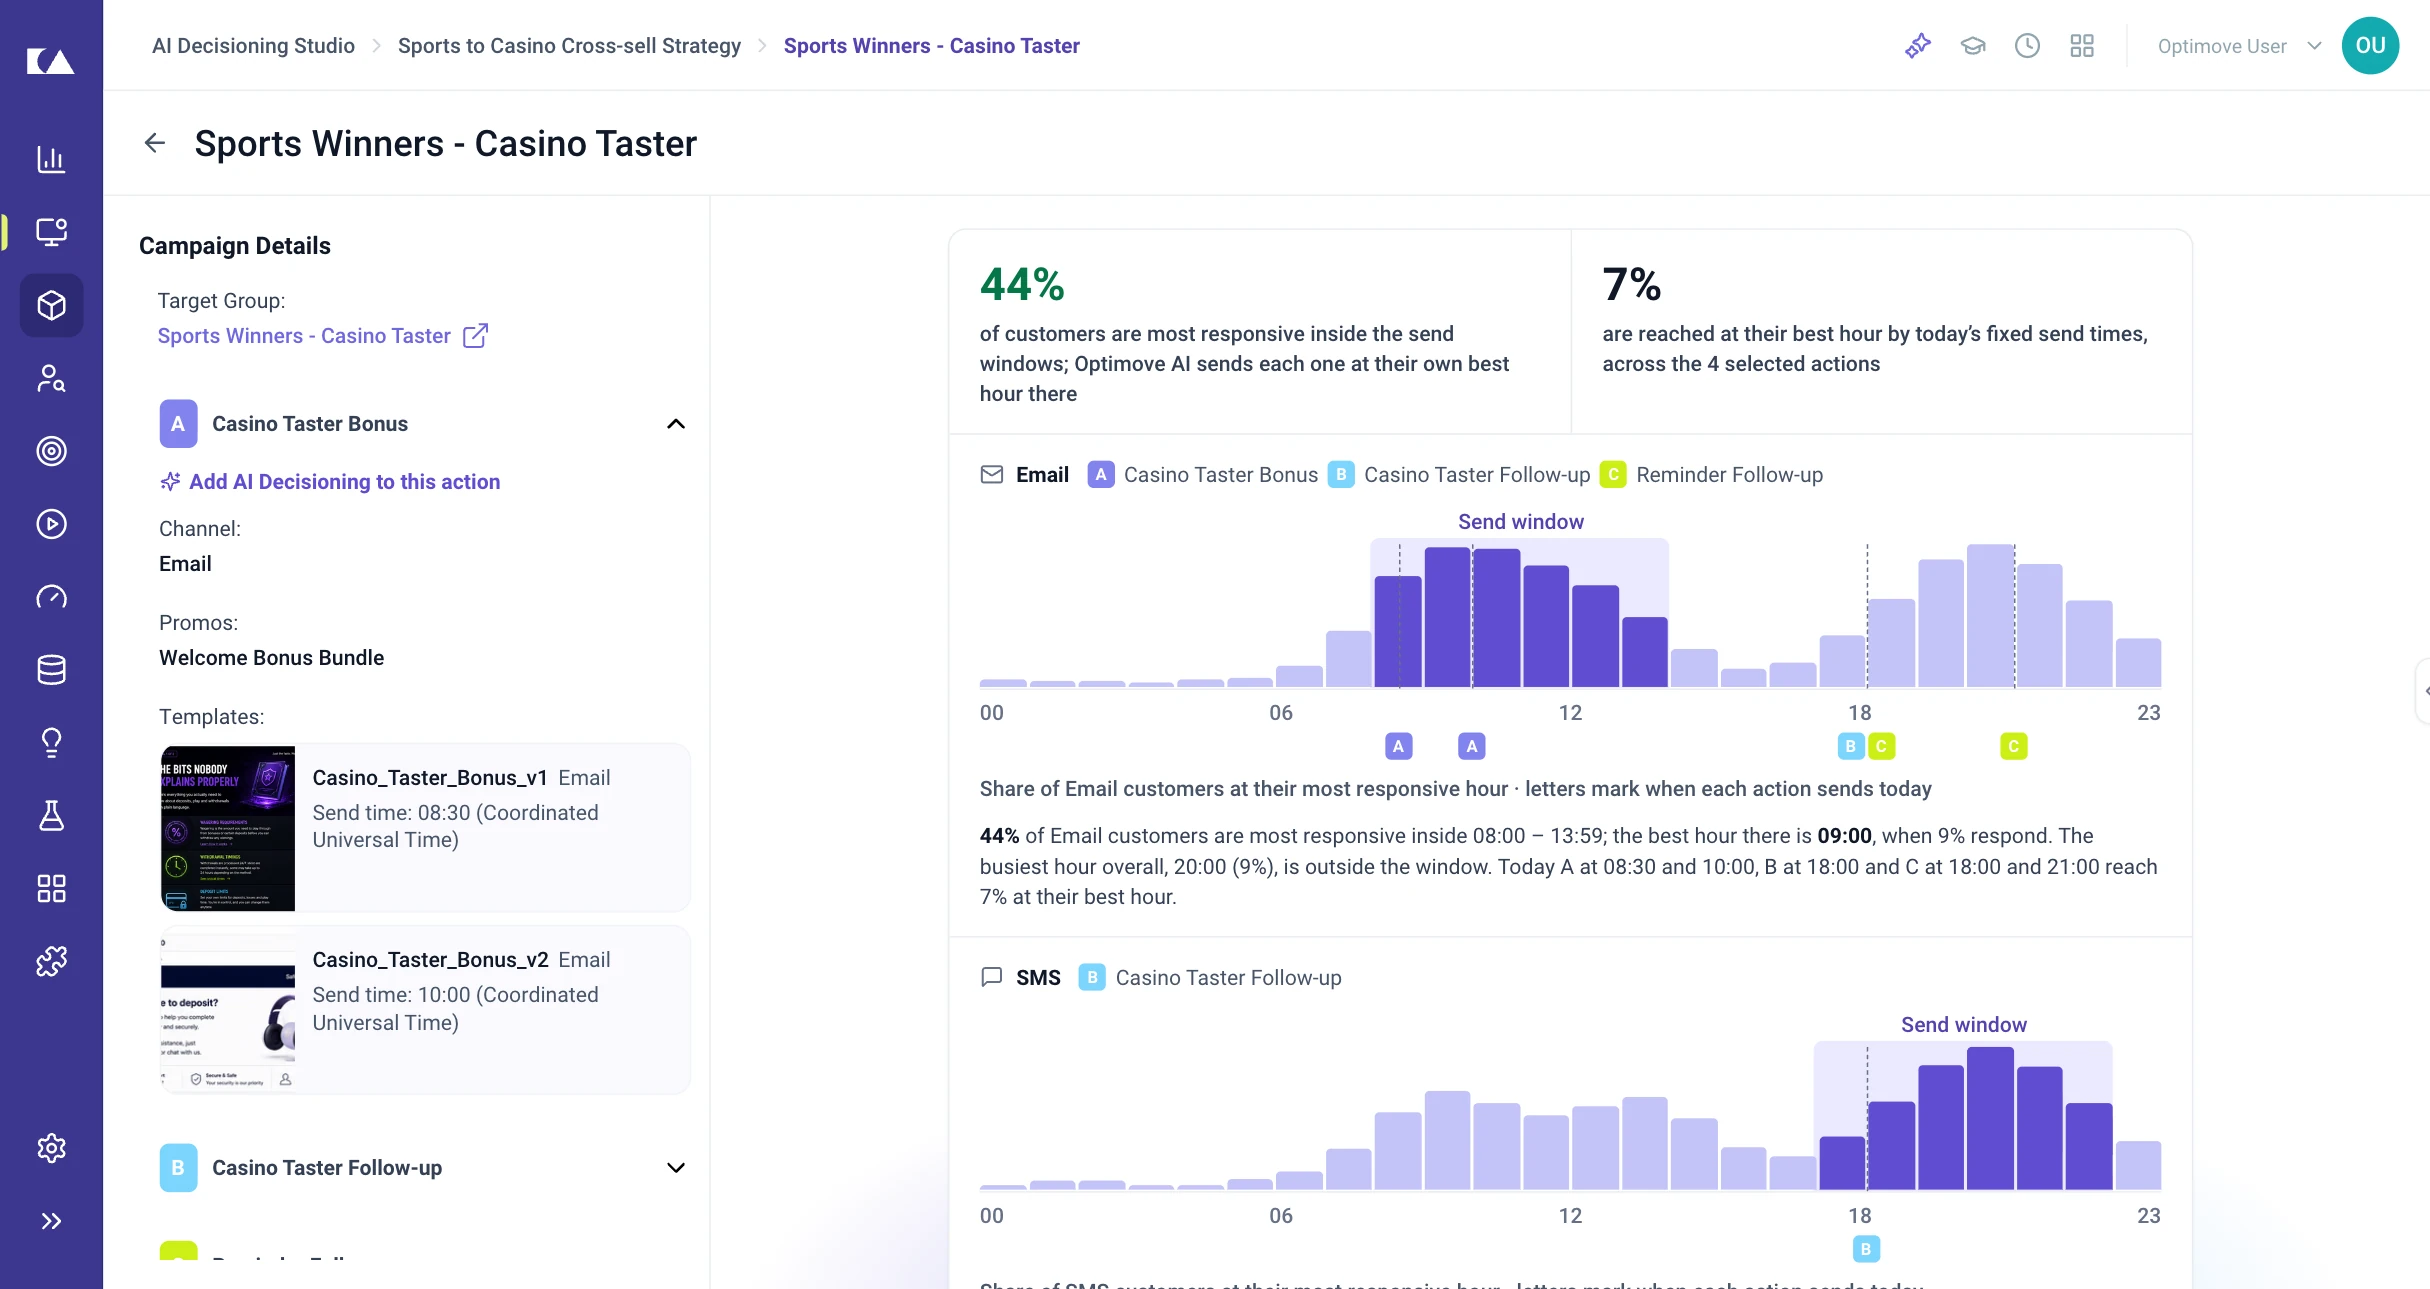
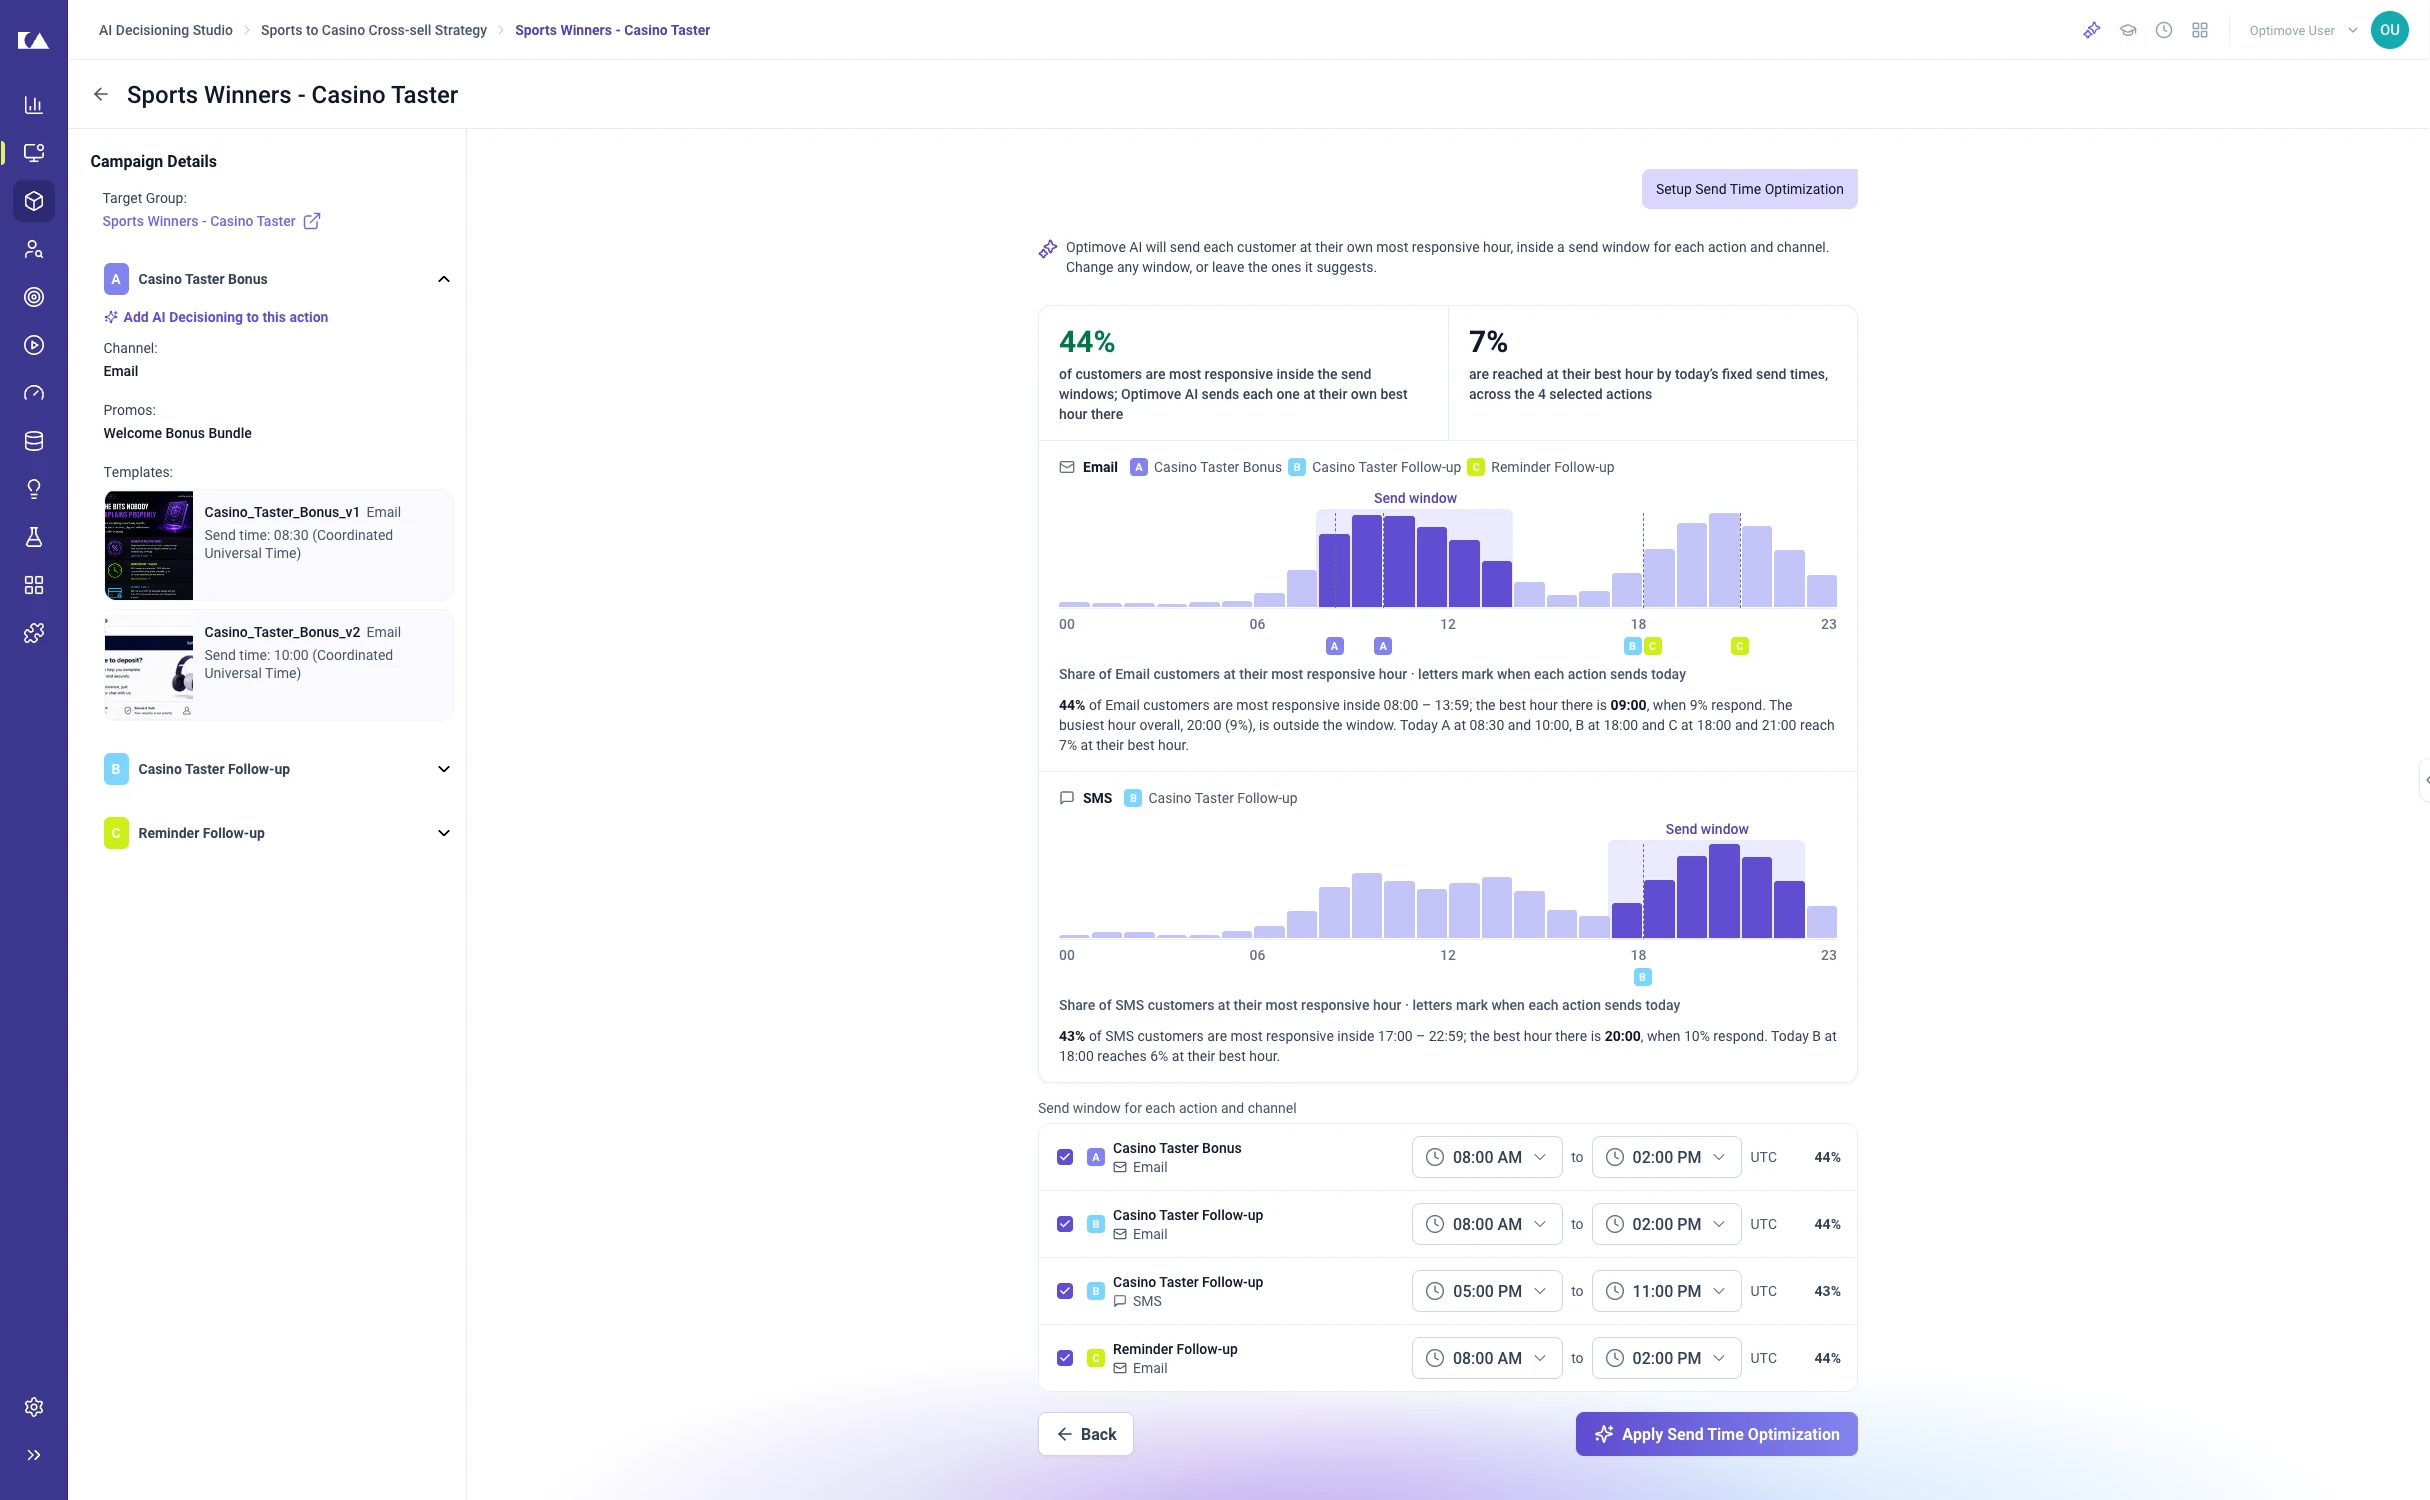
feat(ads): Send Time setup still shows the whole page, no scroll (2430x1500)

diff --git a/ai-decisioning-studio.html b/ai-decisioning-studio.html
@@ -852,7 +852,7 @@ body::after { content: ""; position: fixed; inset: 0; z-index: 9000; pointer-eve
             <div class="story-block fade-up"><div class="story-block__head"><span class="story-block__n">Before and after</span><h3>What it will do, then what it did</h3><p>A preview before the switch, a result against control after it.</p></div><figure class="story-block__art" tabindex="0" aria-label="Before and after; scroll sideways on small screens"><svg class="mg" id="ads-before-after" viewBox="0 0 1800 640" role="img" aria-label="A timeline. Before it runs, what it will do: the setup preview shows when customers respond and how many the send window reaches; then the marketer switches it on. After, what it did: it learns by sending at random, then favours what works, and the result reads against a random control group, plus 7.6% here." data-dur="6.8" xmlns="http://www.w3.org/2000/svg"><g aria-hidden="true"><rect class="tx" x="20" y="40" width="860" height="560" rx="28" fill="#f4fbd7" style="--d:0s;--t:.5s"/><rect class="tx" x="920" y="40" width="860" height="560" rx="28" fill="#f7f5ff" style="--d:.05s;--t:.5s"/><text class="w" x="60" y="100" font-size="30" font-weight="900" text-anchor="start" fill="#1d1850" style="--d:0.20s;--t:0.4s">Before it runs</text><text class="tx mut" x="60" y="136" font-size="22" font-weight="600" text-anchor="start" fill="#1d1850" style="--d:0.30s;--t:0.4s">what it will do</text><text class="w" x="960" y="100" font-size="30" font-weight="900" text-anchor="start" fill="#1d1850" style="--d:0.20s;--t:0.4s">After it runs</text><text class="tx mut" x="960" y="136" font-size="22" font-weight="600" text-anchor="start" fill="#1d1850" style="--d:0.30s;--t:0.4s">what it did</text><path class="dr" d="M70 520 H1730" pathLength="1" fill="none" stroke="#1d1850" stroke-width="3.2" stroke-linecap="round" stroke-linejoin="round" style="--d:0.45s;--t:1.2s"/><circle class="pop" cx="240" cy="520" r="14" fill="#c6e92b" stroke="#1d1850" stroke-width="3" style="--d:0.70s"/><text class="tx" x="240" y="570" font-size="22" font-weight="800" text-anchor="middle" fill="#1d1850" style="--d:0.80s;--t:0.4s">Setup preview</text><circle class="pop" cx="700" cy="520" r="14" fill="#c6e92b" stroke="#1d1850" stroke-width="3" style="--d:0.95s"/><text class="tx" x="700" y="570" font-size="22" font-weight="800" text-anchor="middle" fill="#1d1850" style="--d:1.05s;--t:0.4s">Switch on</text><circle class="pop" cx="1100" cy="520" r="14" fill="#4a37c9" stroke="#1d1850" stroke-width="3" style="--d:1.20s"/><text class="tx" x="1100" y="570" font-size="22" font-weight="800" text-anchor="middle" fill="#1d1850" style="--d:1.30s;--t:0.4s">Learn</text><circle class="pop" cx="1540" cy="520" r="14" fill="#4a37c9" stroke="#1d1850" stroke-width="3" style="--d:1.45s"/><text class="tx" x="1540" y="570" font-size="22" font-weight="800" text-anchor="middle" fill="#1d1850" style="--d:1.55s;--t:0.4s">Result vs control</text><g class="drop" style="--d:1.40s"><rect x="80" y="190" width="320" height="260" rx="16" fill="#c6e92b" stroke="#1d1850" stroke-width="2.0"/><rect x="80" y="180" width="320" height="260" rx="16" fill="#ffffff" stroke="#1d1850" stroke-width="2.0"/><path d="M91.2 183.2 H388.8" stroke="#ffffff" stroke-width="2.4" stroke-linecap="round" opacity=".75" fill="none"/></g><rect class="tx" x="182" y="230" width="128" height="150" rx="8" fill="#f7f5ff" style="--d:1.65s"/><text class="tx" x="246" y="222" font-size="14" font-weight="800" text-anchor="middle" fill="#4a37c9" style="--d:1.70s;--t:0.4s">send window</text><rect class="pop" x="102" y="370" width="20" height="10" rx="3" fill="#aca4ea" style="--d:1.75s"/><rect class="pop" x="130" y="366" width="20" height="14" rx="3" fill="#aca4ea" style="--d:1.79s"/><rect class="pop" x="158" y="354" width="20" height="26" rx="3" fill="#aca4ea" style="--d:1.83s"/><rect class="pop" x="186" y="310" width="20" height="70" rx="3" fill="#4a37c9" style="--d:1.87s"/><rect class="pop" x="214" y="284" width="20" height="96" rx="3" fill="#4a37c9" style="--d:1.91s"/><rect class="pop" x="242" y="298" width="20" height="82" rx="3" fill="#4a37c9" style="--d:1.95s"/><rect class="pop" x="270" y="330" width="20" height="50" rx="3" fill="#4a37c9" style="--d:1.99s"/><rect class="pop" x="298" y="350" width="20" height="30" rx="3" fill="#aca4ea" style="--d:2.03s"/><rect class="pop" x="326" y="360" width="20" height="20" rx="3" fill="#aca4ea" style="--d:2.07s"/><rect class="pop" x="354" y="364" width="20" height="16" rx="3" fill="#aca4ea" style="--d:2.11s"/><text class="tx" x="100" y="420" font-size="19" font-weight="800" text-anchor="start" fill="#1d1850" style="--d:2.20s;--t:0.4s">44% at their best hour</text><path class="dr" d="M240 452 V500" pathLength="1" fill="none" stroke="#1d1850" stroke-width="2.4" stroke-linecap="round" stroke-linejoin="round" stroke-dasharray="3 7" style="--d:2.30s;--t:0.25s"/><g class="pop" style="--d:2.5s"><rect x="620" y="300" width="160" height="84" rx="42" fill="#c6e92b" stroke="#1d1850" stroke-width="3"/><circle cx="736" cy="342" r="30" fill="#fff" stroke="#1d1850" stroke-width="3"/></g><text class="tx mut" x="700" y="270" font-size="18" font-weight="600" text-anchor="middle" fill="#1d1850" style="--d:2.60s;--t:0.4s">the marketer decides</text><path class="dr" d="M700 392 V500" pathLength="1" fill="none" stroke="#1d1850" stroke-width="2.4" stroke-linecap="round" stroke-linejoin="round" stroke-dasharray="3 7" style="--d:2.70s;--t:0.25s"/><circle class="pop" cx="977" cy="322" r="7" fill="#8f7af8" style="--d:2.90s"/><circle class="pop" cx="989" cy="349" r="7" fill="#8f7af8" style="--d:2.93s"/><circle class="pop" cx="1004" cy="405" r="7" fill="#8f7af8" style="--d:2.96s"/><circle class="pop" cx="1007" cy="385" r="7" fill="#8f7af8" style="--d:2.99s"/><circle class="pop" cx="1021" cy="371" r="7" fill="#8f7af8" style="--d:3.02s"/><circle class="pop" cx="1041" cy="326" r="7" fill="#8f7af8" style="--d:3.05s"/><circle class="pop" cx="1050" cy="333" r="7" fill="#8f7af8" style="--d:3.08s"/><circle class="pop" cx="1059" cy="286" r="7" fill="#8f7af8" style="--d:3.11s"/><circle class="pop" cx="1070" cy="288" r="7" fill="#8f7af8" style="--d:3.14s"/><circle class="pop" cx="1079" cy="355" r="7" fill="#8f7af8" style="--d:3.17s"/><circle class="pop" cx="1092" cy="372" r="7" fill="#8f7af8" style="--d:3.20s"/><circle class="pop" cx="1104" cy="338" r="7" fill="#8f7af8" style="--d:3.23s"/><circle class="pop" cx="1110" cy="366" r="7" fill="#4a37c9" style="--d:3.26s"/><circle class="pop" cx="1127" cy="328" r="7" fill="#4a37c9" style="--d:3.29s"/><circle class="pop" cx="1137" cy="308" r="7" fill="#4a37c9" style="--d:3.32s"/><circle class="pop" cx="1148" cy="350" r="7" fill="#4a37c9" style="--d:3.35s"/><circle class="pop" cx="1155" cy="318" r="7" fill="#4a37c9" style="--d:3.38s"/><circle class="pop" cx="1166" cy="343" r="7" fill="#4a37c9" style="--d:3.41s"/><circle class="pop" cx="1183" cy="338" r="7" fill="#4a37c9" style="--d:3.44s"/><circle class="pop" cx="1185" cy="327" r="7" fill="#4a37c9" style="--d:3.47s"/><circle class="pop" cx="1206" cy="331" r="7" fill="#4a37c9" style="--d:3.50s"/><circle class="pop" cx="1213" cy="328" r="7" fill="#4a37c9" style="--d:3.53s"/><text class="tx mut" x="1100" y="200" font-size="18" font-weight="600" text-anchor="middle" fill="#1d1850" style="--d:3.40s;--t:0.4s">random first, then</text><text class="tx" x="1100" y="224" font-size="18" font-weight="800" text-anchor="middle" fill="#1d1850" style="--d:3.45s;--t:0.4s">what works</text><path class="dr" d="M1100 440 V500" pathLength="1" fill="none" stroke="#1d1850" stroke-width="2.4" stroke-linecap="round" stroke-linejoin="round" stroke-dasharray="3 7" style="--d:3.50s;--t:0.25s"/><g class="drop" style="--d:3.60s"><rect x="1360" y="190" width="360" height="260" rx="16" fill="#aca4ea" stroke="#1d1850" stroke-width="2.0"/><rect x="1360" y="180" width="360" height="260" rx="16" fill="#ffffff" stroke="#1d1850" stroke-width="2.0"/><path d="M1371.2 183.2 H1708.8" stroke="#ffffff" stroke-width="2.4" stroke-linecap="round" opacity=".75" fill="none"/></g><path class="dr" d="M1390 380 L1460 372 L1530 376 L1600 340 L1690 290" pathLength="1" fill="none" stroke="#4a37c9" stroke-width="4" stroke-linecap="round" stroke-linejoin="round" style="--d:3.90s;--t:0.7s"/><path class="dr" d="M1390 382 L1460 378 L1530 384 L1600 374 L1690 380" pathLength="1" fill="none" stroke="#98a2b3" stroke-width="3" stroke-linecap="round" stroke-linejoin="round" stroke-dasharray="8 8" style="--d:4.00s;--t:0.7s"/><text class="w" x="1388" y="232" font-size="40" font-weight="900" text-anchor="start" fill="#067647" style="--d:4.50s;--t:0.4s">+7.6%</text><text class="tx mut" x="1388" y="262" font-size="16" font-weight="600" text-anchor="start" fill="#1d1850" style="--d:4.60s;--t:0.4s">vs a random control group</text><text class="tx" x="1696" y="412" font-size="14" font-weight="700" text-anchor="end" fill="#667085" style="--d:4.70s;--t:0.4s">control</text><text class="tx" x="1696" y="276" font-size="16" font-weight="800" text-anchor="end" fill="#4a37c9" style="--d:4.70s;--t:0.4s">AI</text><path class="dr" d="M1540 452 V500" pathLength="1" fill="none" stroke="#1d1850" stroke-width="2.4" stroke-linecap="round" stroke-linejoin="round" stroke-dasharray="3 7" style="--d:4.80s;--t:0.25s"/></g></svg></figure></div>
             <div class="story-opening story-opening--page story-opening--sketch story-before">
                 <div class="princ fade-up"><span class="n">Before it runs</span><h3>What customers will receive, not only what they got</h3><p>Setting up Send Time shows when customers respond and how many the send window reaches, against today’s fixed times. The marketer sees the change before switching it on.</p></div>
-                <figure class="story-sketch story-still fade-up"><div class="ads-shot" data-full="./assets/ai-decisioning-studio/sto-setup.webp?v=6f9ea3bac295" data-width="2430" data-height="1289" data-title="Send Time Optimization setup"><img loading="lazy" decoding="async" src="./assets/ai-decisioning-studio/sto-setup.webp?v=6f9ea3bac295" width="2430" height="1289" alt="Setting up Send Time Optimization on a campaign with three actions: the share of customers most responsive inside the send windows against today’s fixed times, then a chart per channel with each action’s current send time and the suggested send window"></div></figure>
+                <figure class="story-sketch story-still fade-up"><div class="ads-shot" data-full="./assets/ai-decisioning-studio/sto-setup.webp?v=d69cee4ddcb7" data-width="2430" data-height="1500" data-title="Send Time Optimization setup"><img loading="lazy" decoding="async" src="./assets/ai-decisioning-studio/sto-setup.webp?v=d69cee4ddcb7" width="2430" height="1500" alt="Setting up Send Time Optimization on a campaign with three actions, the whole page: the share of customers most responsive inside the send windows against today’s fixed times, a chart per channel with each action’s current send time and the suggested send window, then the send window for each action and channel, ready to apply"></div></figure>
             </div>
             <div class="story-block__head story-block__head--sub fade-up"><span class="story-block__n">After it runs</span><h3>What it did, against control</h3></div>
             <div class="ads-closeup-pair"><figure class="ads-closeup ads-closeup--wide"><div class="ads-closeup__shot"><div class="ads-closeup__frame"><img loading="lazy" decoding="async" src="./assets/ai-decisioning-studio/closeup-campaign-pc.webp?v=f7a18a922700" width="2112" height="632" alt="Promotion and Channel tab: plus 7.6% optimization benefit and plus $21.2K total added, beside a chart of Optimove AI against a random control group, occurrence by occurrence"><span class="ads-pin" style="--i:0;left:3.5%;top:19.1%" aria-hidden="true">1</span><span class="ads-pin" style="--i:1;left:30%;top:9.2%" aria-hidden="true">2</span></div></div><figcaption class="ads-closeup__notes"><ol><li style="--i:0"><strong>Against control.</strong> The optimization benefit and the total it added.</li><li style="--i:1"><strong>Learned, then earned.</strong> Random at first; the lines separate as AI favors what works.</li></ol></figcaption></figure><figure class="ads-closeup ads-closeup--wide"><div class="ads-closeup__shot"><div class="ads-closeup__frame"><img loading="lazy" decoding="async" src="./assets/ai-decisioning-studio/closeup-campaign-sto.webp?v=7a9cc6ebd7c3" width="2112" height="514" alt="Send Time Optimization tab: delivered, open rate and click rate by hour; most sends at 1 PM, the best response at 6 PM"><span class="ads-pin" style="--i:0;left:48.3%;top:42.4%" aria-hidden="true">1</span><span class="ads-pin" style="--i:1;left:84.3%;top:58%" aria-hidden="true">2</span></div></div><figcaption class="ads-closeup__notes"><ol><li style="--i:0"><strong>Where the sends went.</strong> Most went out at 1 PM, the hour with the fewest opens.</li><li style="--i:1"><strong>When customers respond.</strong> Best at 6 PM, from the product’s own engagement report.</li></ol></figcaption></figure></div>
